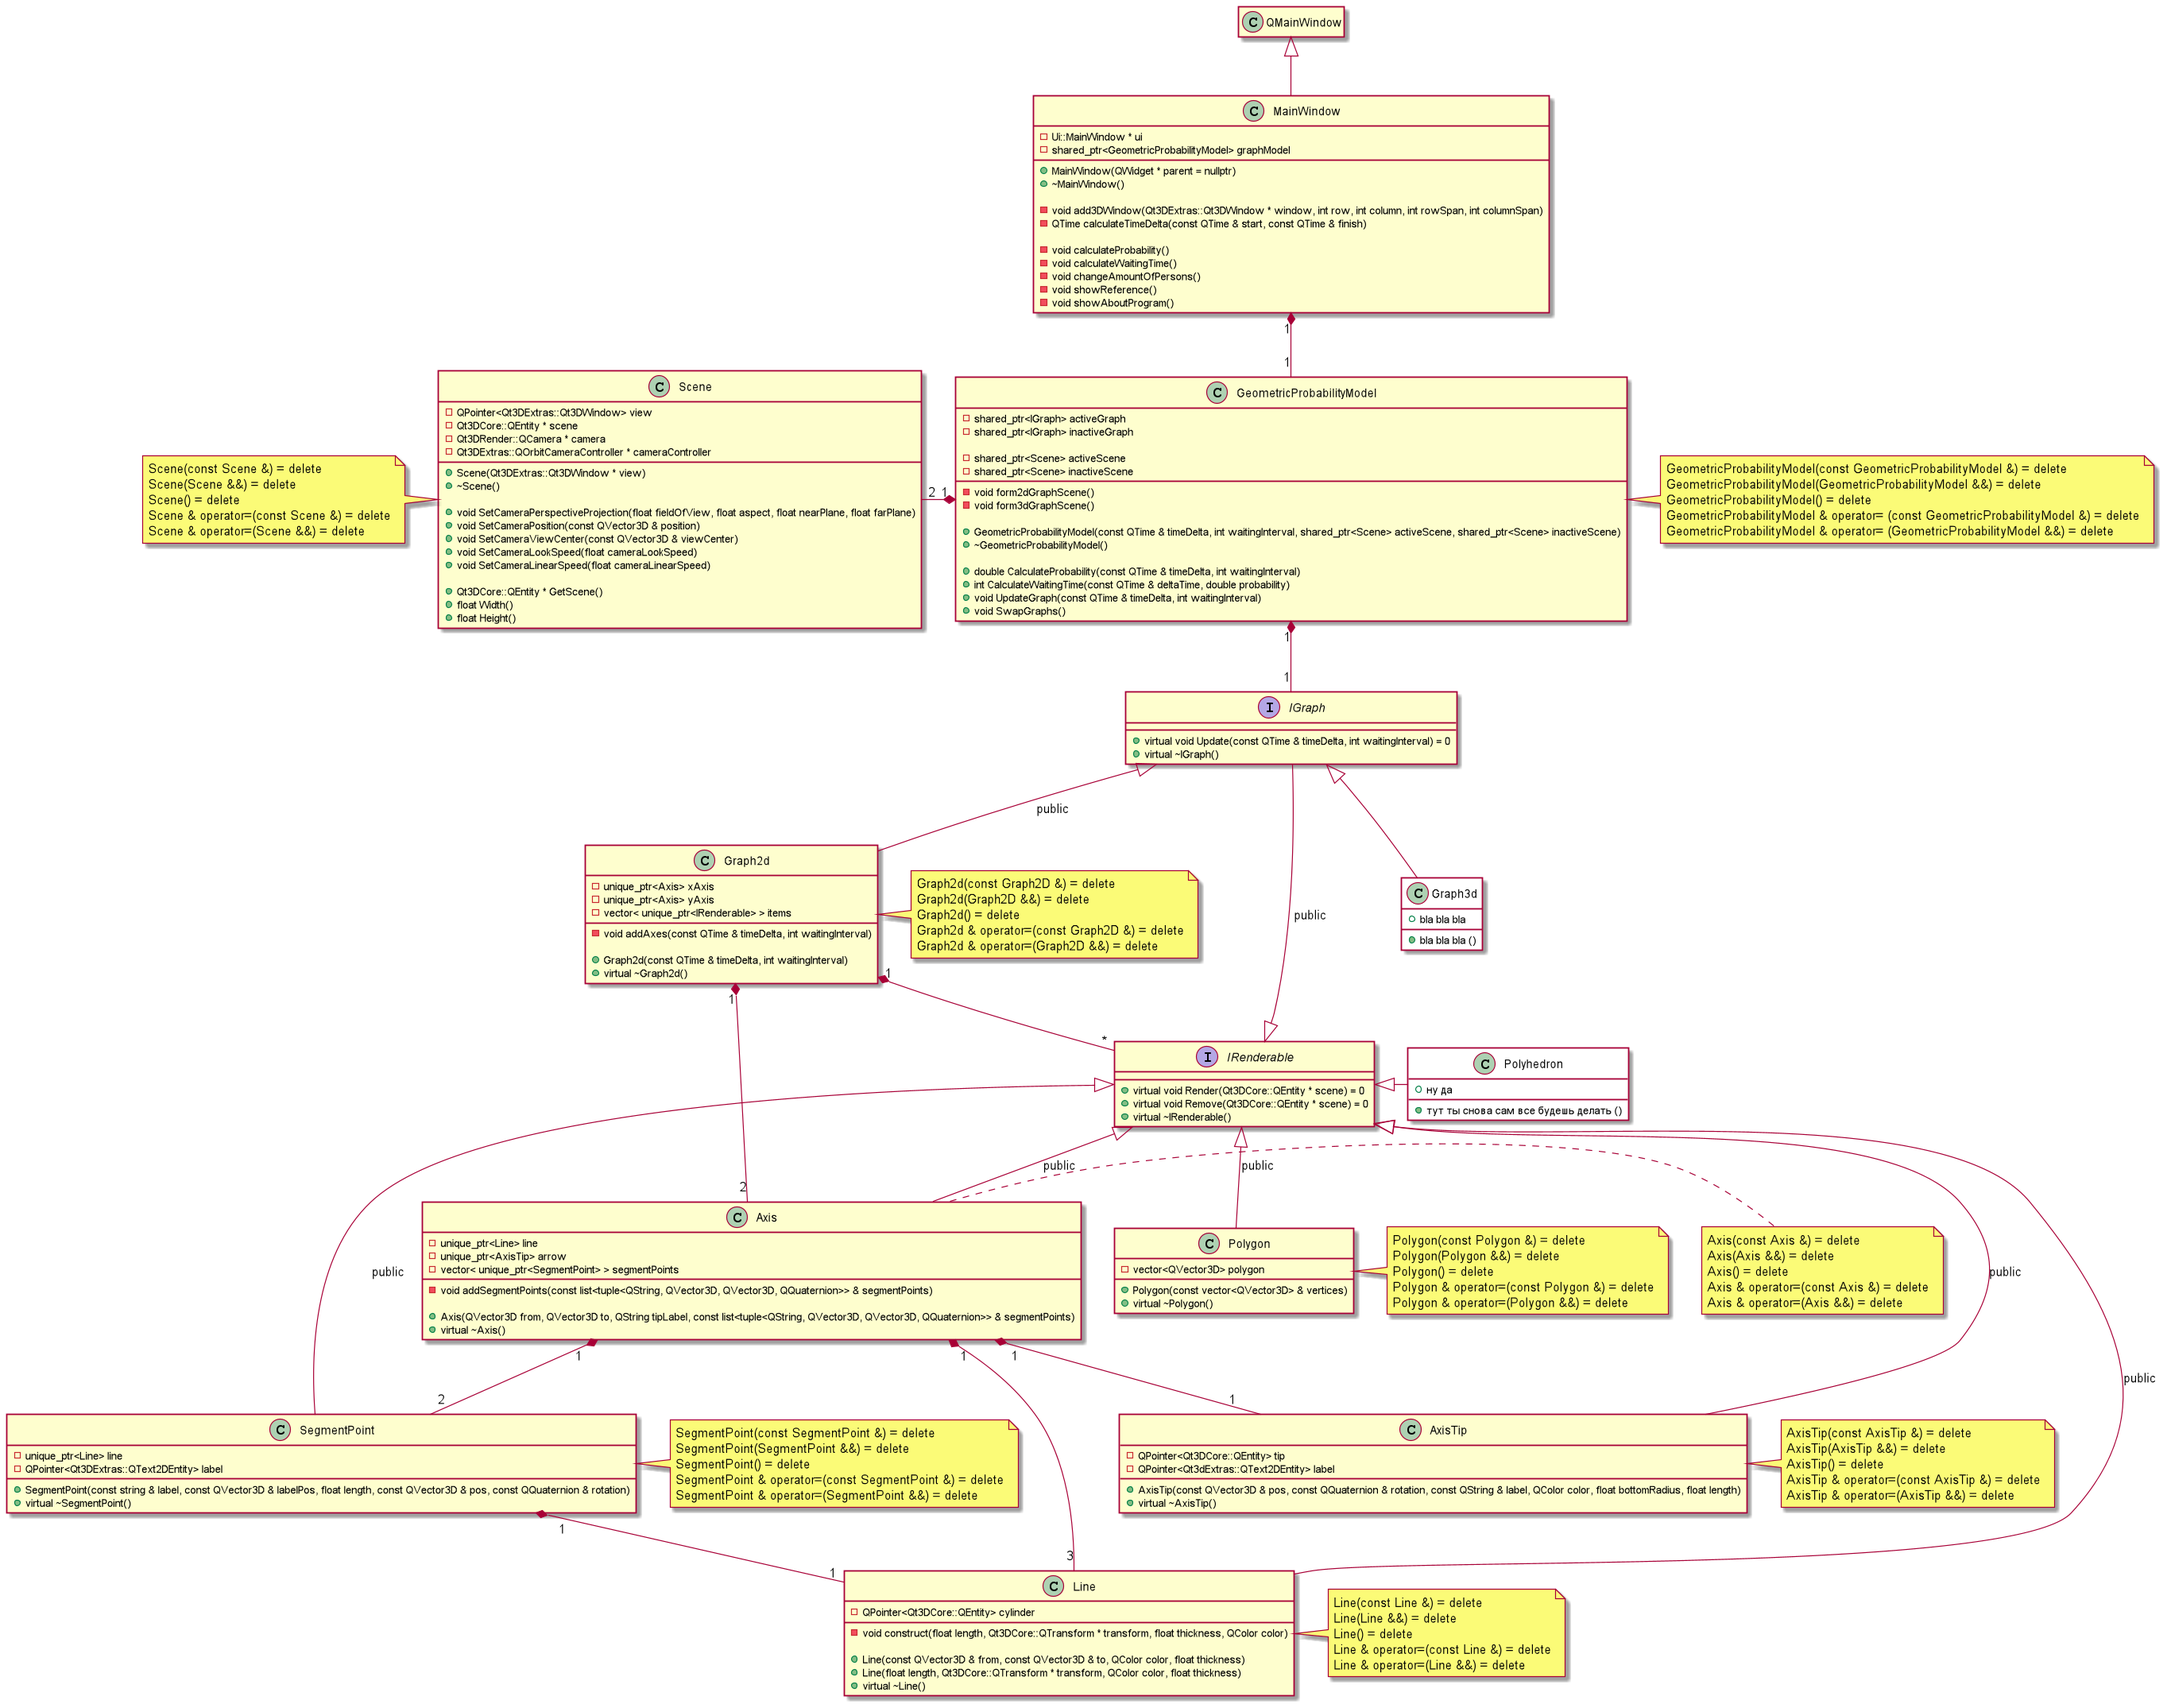
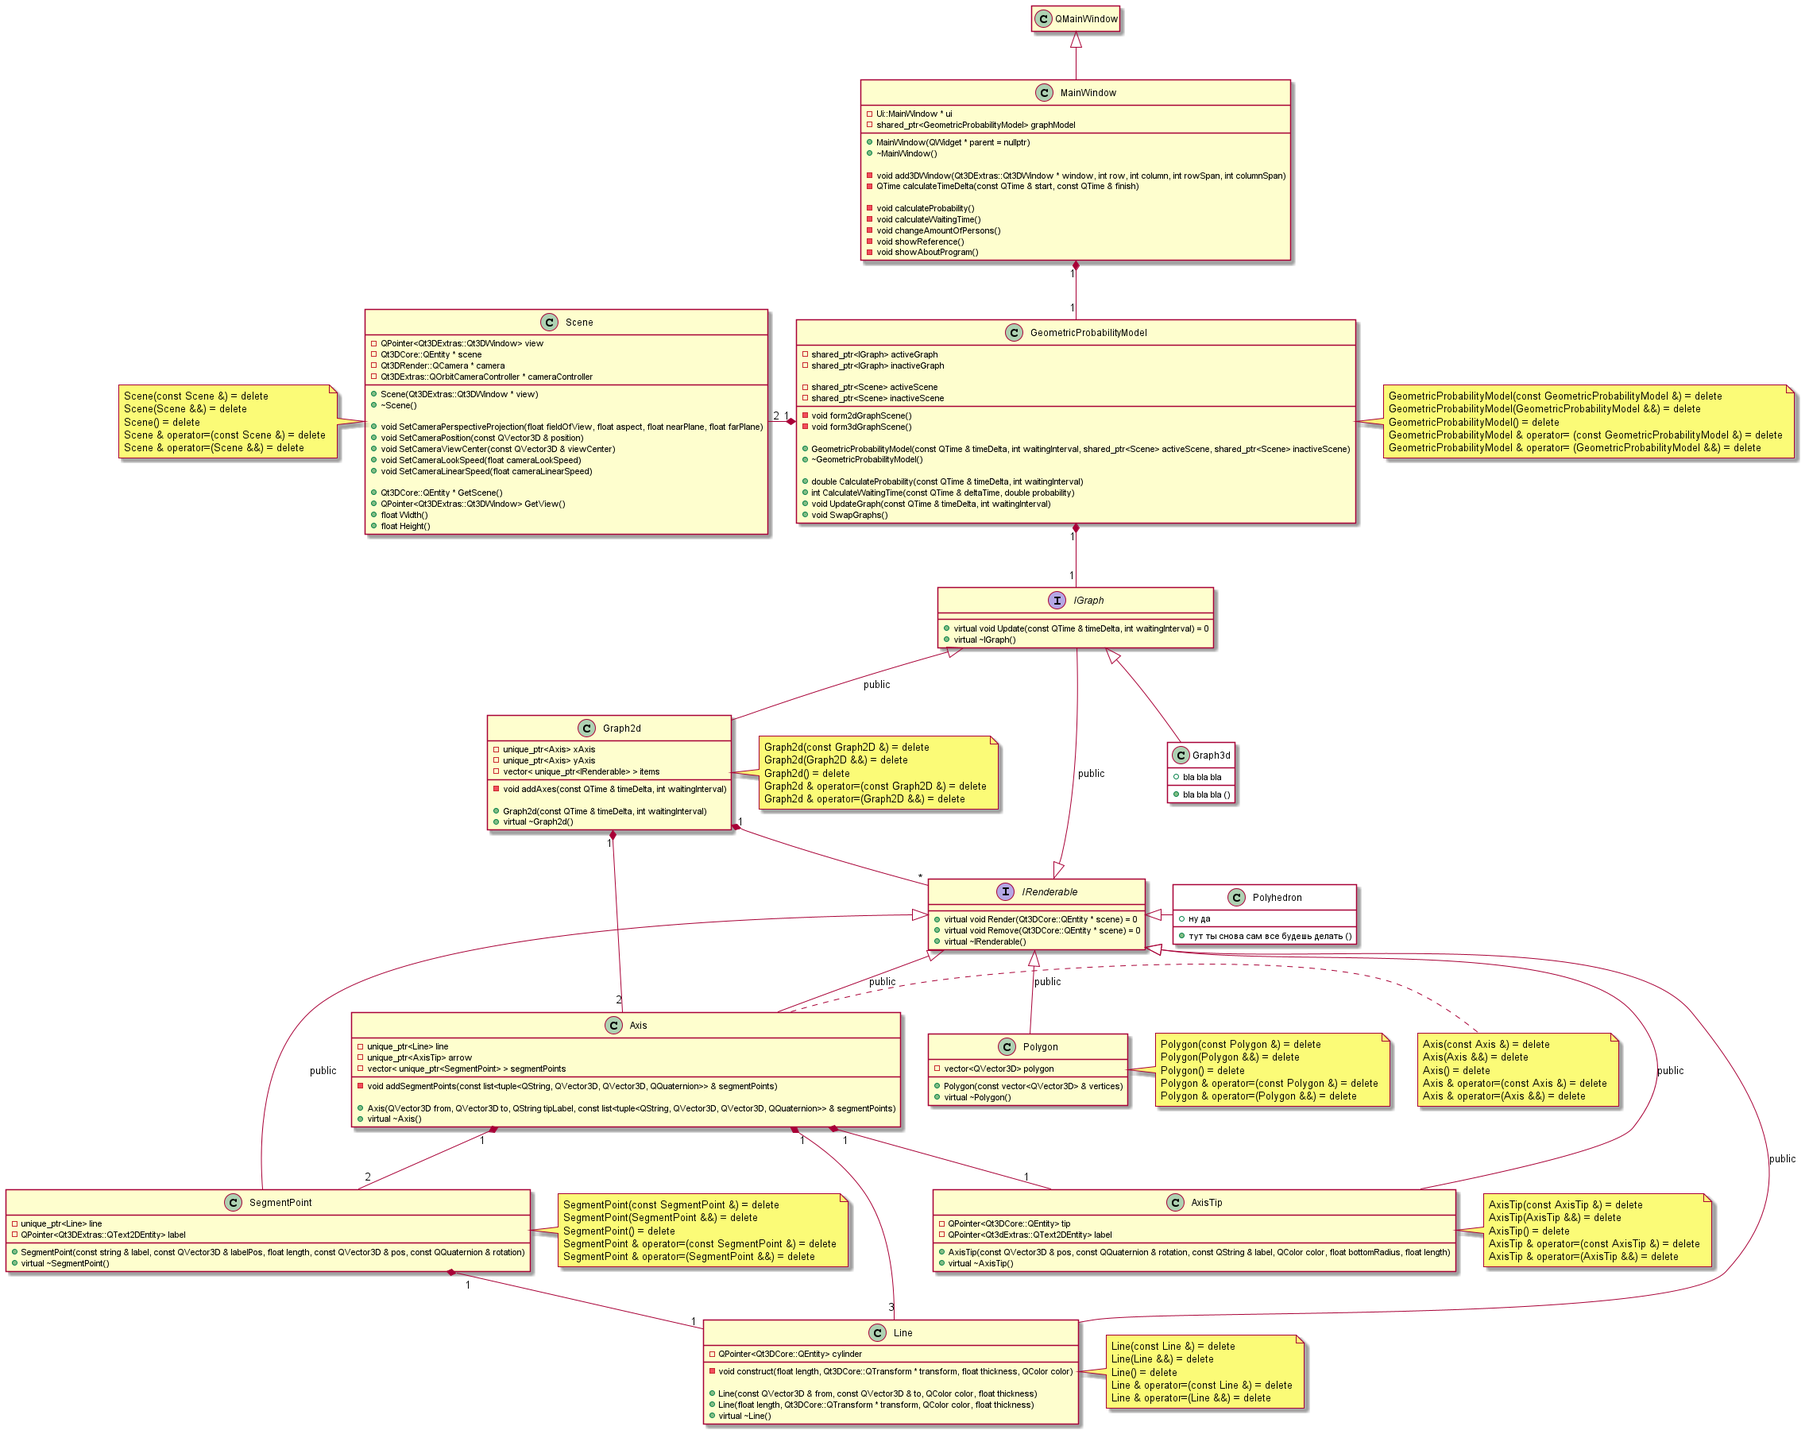
реализовано переключение 3д сцен по нажатии соответствующей галочки

diff --git a/src/GeometricProbabilityModel.cpp b/src/GeometricProbabilityModel.cpp
@@ -105,7 +105,7 @@ void GeometricProbabilityModel::UpdateGraph(const QTime & timeDelta, int waiting
 
 void GeometricProbabilityModel::SwapGraphs()
 {
-	// todo изменение rootEntity для текущего view
 	std::swap(activeGraph, inactiveGraph);
 	std::swap(activeScene, inactiveScene);
+	activeScene->GetView()->setRootEntity(activeScene->GetScene());
 }

diff --git a/src/Scene.h b/src/Scene.h
@@ -47,6 +47,7 @@ public:
 	void SetCameraLinearSpeed(float cameraLinearSpeed);
 	
 	Qt3DCore::QEntity * GetScene() { return scene; }
+	QPointer<Qt3DExtras::Qt3DWindow> GetView() { return view; }
 	float Width() { return view->width(); }
 	float Height() { return view->height(); }
 };
